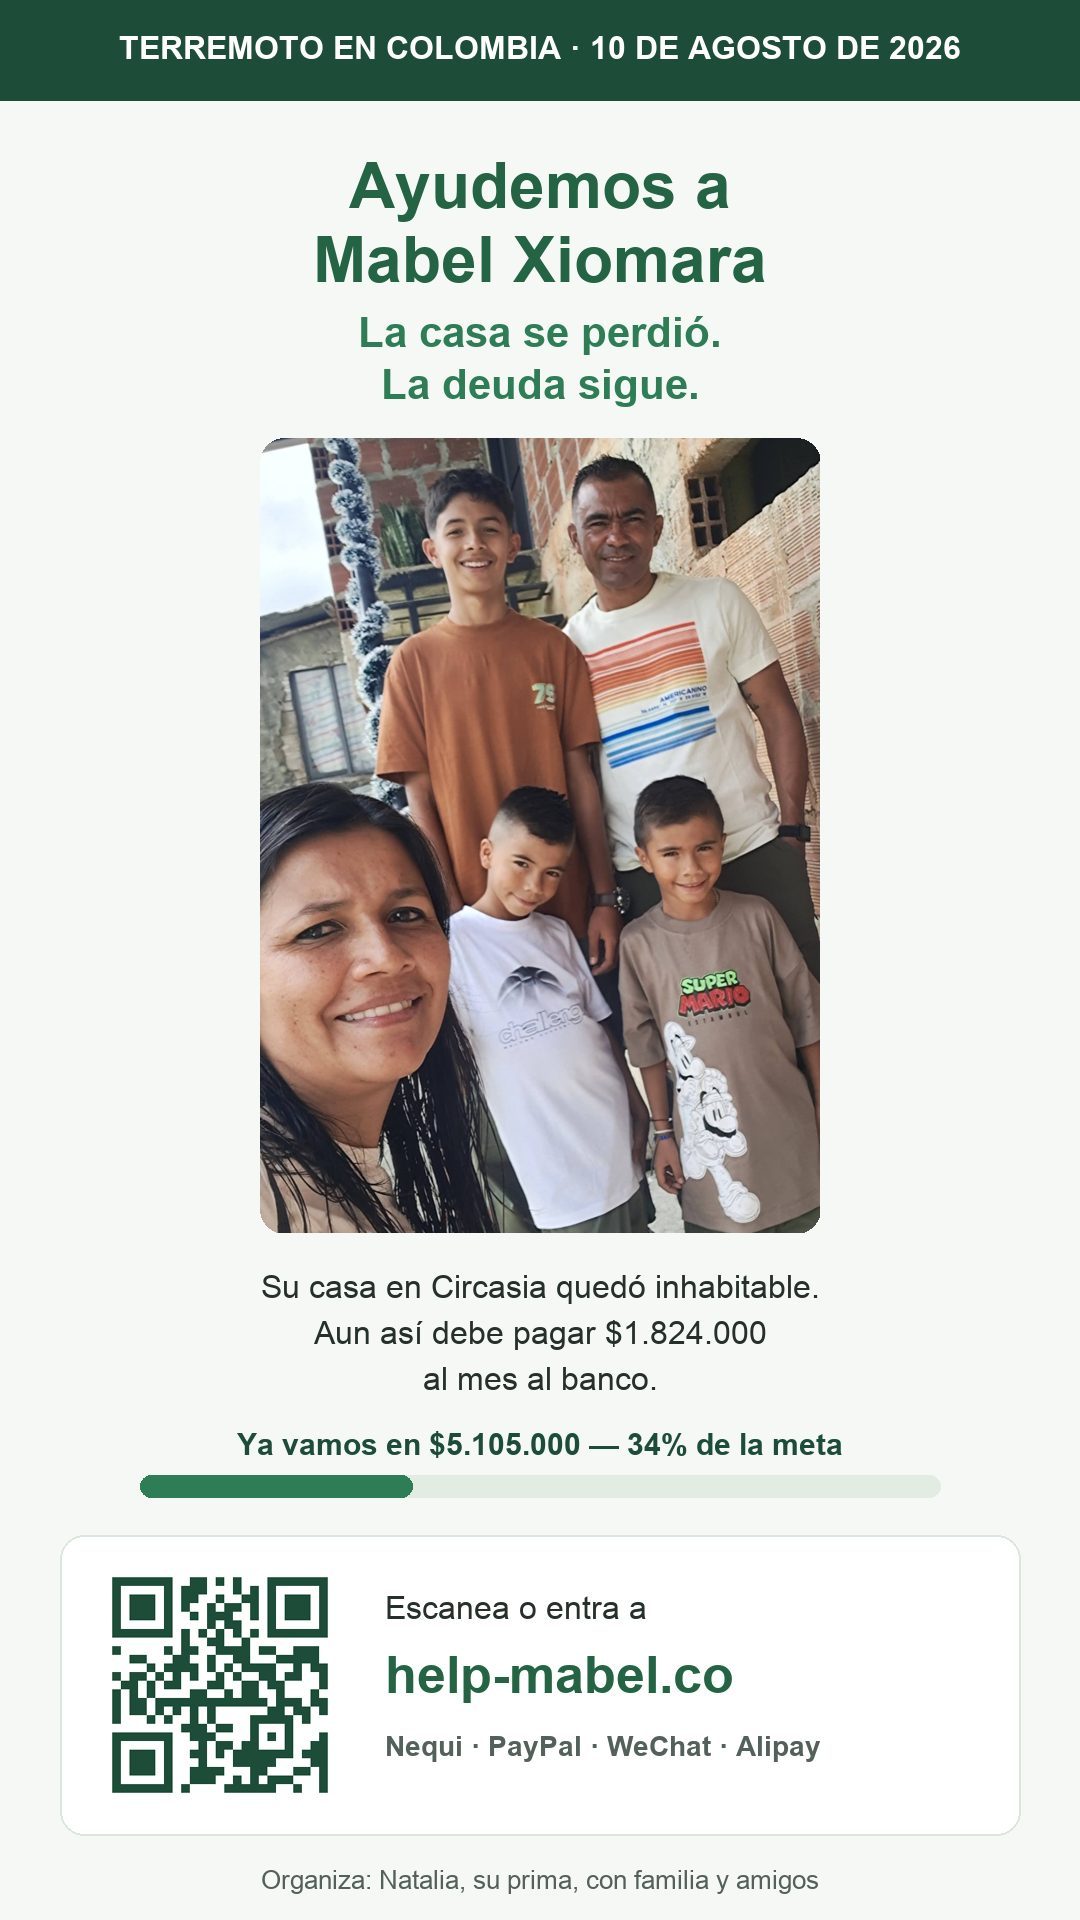
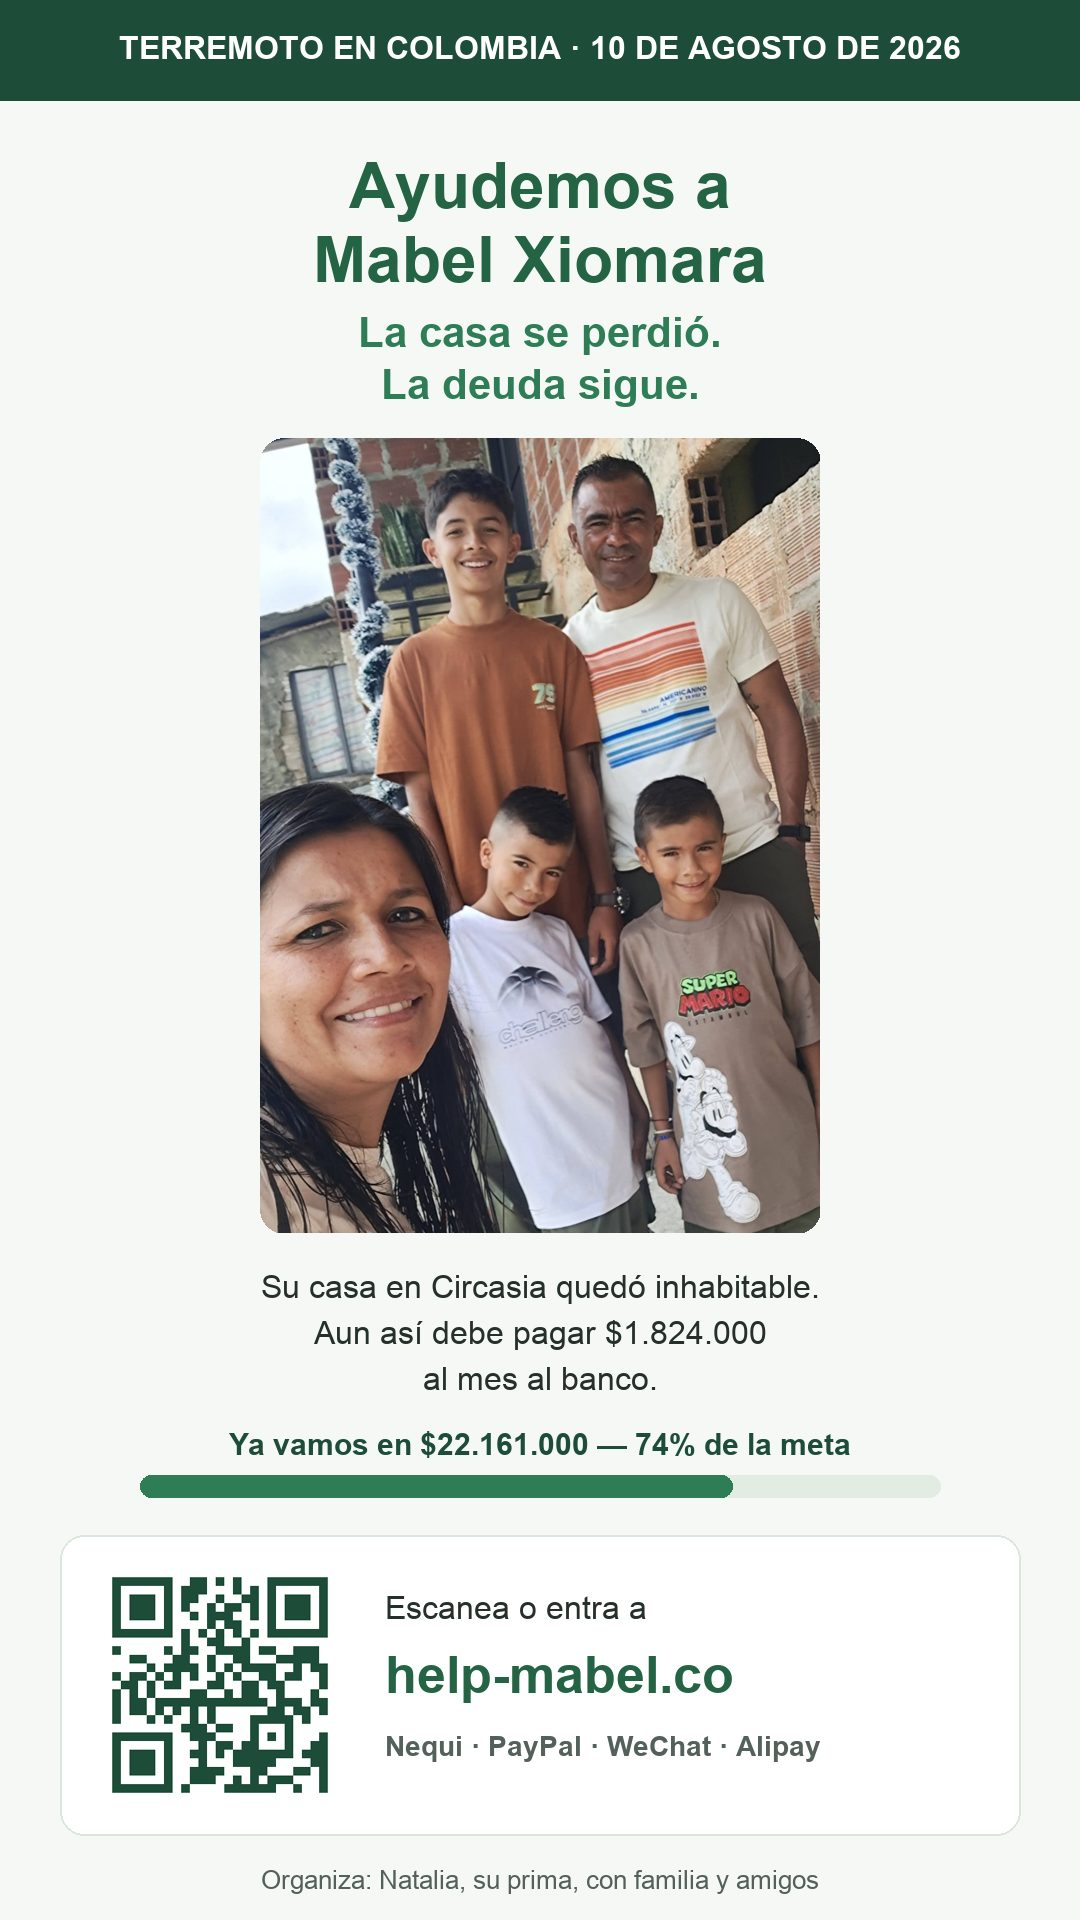
🎉 Primera meta superada: $22.161.000 (148%) — meta ampliada a $30M (74%)

Changed region(s): [[0.2139, 0.75, 0.7944, 0.7812]]

diff --git a/de/index.html b/de/index.html
@@ -38,7 +38,7 @@
   .lede strong{color:var(--ink)}
   .progress-card{background:var(--card);border:1px solid var(--line);border-radius:14px;padding:18px;margin:18px 0}
   .bar{background:#e2ece2;border-radius:99px;height:14px;overflow:hidden;margin:10px 0 6px}
-  .fill{background:linear-gradient(90deg,var(--green-deep),#3f9668);height:100%;width:71%;border-radius:99px}
+  .fill{background:linear-gradient(90deg,var(--green-deep),#3f9668);height:100%;width:74%;border-radius:99px}
   .raised{font-size:22px;font-weight:700;color:var(--green-deep)}
   .goal-note{font-size:14px;color:var(--ink-soft)}
   .btn{display:block;text-align:center;background:var(--green);color:#fff;text-decoration:none;
@@ -103,9 +103,9 @@
 </header>
 
 <div class="progress-card">
-  <div class="raised"><span id="raised-num">10.658.000 COP</span> gesammelt <span id="raised-pct" style="font-size:16px;color:var(--ink-soft);font-weight:600">· 71 % des ersten Ziels</span></div>
+  <div class="raised"><span id="raised-num">22.161.000 COP</span> gesammelt <span id="raised-pct" style="font-size:16px;color:var(--ink-soft);font-weight:600">· 74 % des neuen Ziels</span></div>
   <div class="bar"><div class="fill" id="bar-fill"></div></div>
-  <div class="goal-note"><strong>Erstes Ziel: <span id="first-goal">15.000.000 COP</span></strong> — rund 8 Monatsraten (≈ 4.100 €)</div>
+  <div class="goal-note"><strong>Neues Ziel: <span id="first-goal">30.000.000 COP</span></strong> — das erste Ziel (15 Mio.) wurde in nur 2 Tagen erreicht! 🎉 (≈ 8.300 €)</div>
   <div class="goal-note" id="due-line" style="margin-top:6px;color:var(--green-dark);font-weight:700">Die nächste Rate über 1.824.000 COP (≈ 500 €) ist am 15. August fällig.</div>
 </div>
 
@@ -235,6 +235,15 @@ weiterleitet und die Belege veröffentlicht. Jeder Beitrag zählt — gemeinsam 
 
 <h2>Neuigkeiten</h2>
 <div class="update">
+  <div class="date">14. August 2026 — 🎉 ERSTES ZIEL ÜBERTROFFEN!</div>
+  <p style="margin:6px 0 0">In nur zwei Tagen haben wir das erste Ziel von 15 Millionen COP erreicht —
+  und übertroffen: Wir stehen bei <strong>22.161.000 COP (≈ 6.100 €)</strong>, dank Spenden aus Kolumbien
+  (Nequi: 11,5 Mio.), Europa und Australien (PayPal: 2.416 € + Überweisungen: 250 €) und China (WeChat
+  und Alipay: ¥2.100). Deshalb erhöhen wir das Ziel: <strong>30 Millionen COP — mehr als ein Jahr an
+  Kreditraten</strong>. Von Herzen danke an alle, die in fünf Ländern gespendet und geteilt haben.
+  Weiter geht's! 💚</p>
+</div>
+<div class="update">
   <div class="date">13. August 2026 — 34 %!</div>
   <p style="margin:6px 0 0">Was für ein Start! Wir stehen bei <strong>5.105.000 COP (≈ 1.400 €)</strong>
   — 34 % des ersten Ziels: 1.342 € über PayPal (inklusive der ersten Beiträge aus der Familie) und
@@ -267,7 +276,7 @@ einen Chat oder deine Moments（朋友圈）ein und sende sie.</p>
 
 <div class="sticky"><a class="btn" href="#spenden">💚 Jetzt spenden</a></div>
 
-<script src="../data.js?v=6"></script>
+<script src="../data.js?v=7"></script>
 <script>
 (function(){
   var c = window.CAMPAIGN; if (!c) return;
@@ -275,7 +284,7 @@ einen Chat oder deine Moments（朋友圈）ein und sende sie.</p>
   var f = function(n){ return n.toLocaleString("de-DE") + " COP"; };
   var eur = (c.copPerEur > 0) ? Math.round(c.raised / c.copPerEur / 10) * 10 : 0;
   document.getElementById("raised-num").textContent = f(c.raised) + (eur > 0 ? " (≈ " + eur.toLocaleString("de-DE") + " €)" : "");
-  document.getElementById("raised-pct").textContent = "· " + pct.toLocaleString("de-DE") + " % des ersten Ziels";
+  document.getElementById("raised-pct").textContent = "· " + pct.toLocaleString("de-DE") + " % des neuen Ziels";
   document.getElementById("bar-fill").style.width = Math.min(pct, 100) + "%";
   document.getElementById("first-goal").textContent = f(c.firstGoal);
   if (c.nextPaymentDue) {

diff --git a/en/index.html b/en/index.html
@@ -38,7 +38,7 @@
   .lede strong{color:var(--ink)}
   .progress-card{background:var(--card);border:1px solid var(--line);border-radius:14px;padding:18px;margin:18px 0}
   .bar{background:#e2ece2;border-radius:99px;height:14px;overflow:hidden;margin:10px 0 6px}
-  .fill{background:linear-gradient(90deg,var(--green-deep),#3f9668);height:100%;width:71%;border-radius:99px}
+  .fill{background:linear-gradient(90deg,var(--green-deep),#3f9668);height:100%;width:74%;border-radius:99px}
   .raised{font-size:22px;font-weight:700;color:var(--green-deep)}
   .goal-note{font-size:14px;color:var(--ink-soft)}
   .btn{display:block;text-align:center;background:var(--green);color:#fff;text-decoration:none;
@@ -103,9 +103,9 @@
 </header>
 
 <div class="progress-card">
-  <div class="raised"><span id="raised-num">10,658,000 COP</span> raised <span id="raised-pct" style="font-size:16px;color:var(--ink-soft);font-weight:600">· 71% of the first goal</span></div>
+  <div class="raised"><span id="raised-num">22,161,000 COP</span> raised <span id="raised-pct" style="font-size:16px;color:var(--ink-soft);font-weight:600">· 74% of the new goal</span></div>
   <div class="bar"><div class="fill" id="bar-fill"></div></div>
-  <div class="goal-note"><strong>First goal: <span id="first-goal">15,000,000 COP</span></strong> — about 8 months of loan payments (≈ €4,100 / £3,500 / A$6,700)</div>
+  <div class="goal-note"><strong>New goal: <span id="first-goal">30,000,000 COP</span></strong> — the first goal ($15M) was reached in just 2 days! 🎉 (≈ €8,300 / £7,100 / A$13,400)</div>
   <div class="goal-note" id="due-line" style="margin-top:6px;color:var(--green-dark);font-weight:700">The next loan payment of 1,824,000 COP (≈ €500) is due 15 August.</div>
 </div>
 
@@ -232,6 +232,14 @@ Mabel Xiomara and posts the receipts. Every contribution counts — together we 
 
 <h2>Updates</h2>
 <div class="update">
+  <div class="date">August 14, 2026 — 🎉 FIRST GOAL SMASHED!</div>
+  <p style="margin:6px 0 0">In just two days we reached — and passed — the first goal of 15 million COP:
+  we're now at <strong>22,161,000 COP (≈ €6,100)</strong>, thanks to donations from Colombia (Nequi:
+  11.5M), Europe and Australia (PayPal: €2,416 + bank transfers: €250) and China (WeChat and Alipay:
+  ¥2,100). So we're raising the goal: <strong>30 million COP — more than a year of loan payments</strong>.
+  Heartfelt thanks to everyone who has donated and shared across five countries. Onward! 💚</p>
+</div>
+<div class="update">
   <div class="date">August 13, 2026 — 34%!</div>
   <p style="margin:6px 0 0">What a start! We're at <strong>5,105,000 COP (≈ €1,400)</strong> — 34% of
   the first goal: €1,342 via PayPal (including the family's initial contributions) and ¥500 via WeChat.
@@ -264,7 +272,7 @@ chat or your Moments（朋友圈）and send.</p>
 
 <div class="sticky"><a class="btn" href="#donate">💚 Donate now</a></div>
 
-<script src="../data.js?v=6"></script>
+<script src="../data.js?v=7"></script>
 <script>
 (function(){
   var c = window.CAMPAIGN; if (!c) return;
@@ -272,7 +280,7 @@ chat or your Moments（朋友圈）and send.</p>
   var f = function(n){ return n.toLocaleString("en-GB") + " COP"; };
   var eur = (c.copPerEur > 0) ? Math.round(c.raised / c.copPerEur / 10) * 10 : 0;
   document.getElementById("raised-num").textContent = f(c.raised) + (eur > 0 ? " (≈ €" + eur.toLocaleString("en-GB") + ")" : "");
-  document.getElementById("raised-pct").textContent = "· " + pct.toLocaleString("en-GB") + "% of the first goal";
+  document.getElementById("raised-pct").textContent = "· " + pct.toLocaleString("en-GB") + "% of the new goal";
   document.getElementById("bar-fill").style.width = Math.min(pct, 100) + "%";
   document.getElementById("first-goal").textContent = f(c.firstGoal);
   if (c.nextPaymentDue) {

diff --git a/index.html b/index.html
@@ -42,7 +42,7 @@
 
   .progress-card{background:var(--card);border:1px solid var(--line);border-radius:14px;padding:18px;margin:18px 0}
   .bar{background:#e2ece2;border-radius:99px;height:14px;overflow:hidden;margin:10px 0 6px}
-  .fill{background:linear-gradient(90deg,var(--green-deep),#3f9668);height:100%;width:71%;border-radius:99px}
+  .fill{background:linear-gradient(90deg,var(--green-deep),#3f9668);height:100%;width:74%;border-radius:99px}
   .raised{font-size:22px;font-weight:700;color:var(--green-deep)}
   .goal-note{font-size:14px;color:var(--ink-soft)}
 
@@ -118,9 +118,9 @@
 </header>
 
 <div class="progress-card">
-  <div class="raised"><span id="raised-num">$10.658.000</span> COP recaudados <span id="raised-pct" style="font-size:16px;color:var(--ink-soft);font-weight:600">· 71% de la primera meta</span></div>
+  <div class="raised"><span id="raised-num">$22.161.000</span> COP recaudados <span id="raised-pct" style="font-size:16px;color:var(--ink-soft);font-weight:600">· 74% de la nueva meta</span></div>
   <div class="bar"><div class="fill" id="bar-fill"></div></div>
-  <div class="goal-note"><strong>Primera meta: <span id="first-goal">$15.000.000</span></strong> — unos 8 meses de cuotas del crédito</div>
+  <div class="goal-note"><strong>Nueva meta: <span id="first-goal">$30.000.000</span></strong> — ¡la primera meta ($15M) se superó en solo 2 días! 🎉</div>
   <div class="goal-note" id="due-line" style="margin-top:6px;color:var(--green-dark);font-weight:700">La próxima cuota de $1.824.000 vence el 15 de agosto.</div>
 </div>
 
@@ -249,6 +249,14 @@ Cualquier aporte suma; entre todos marcamos la diferencia.</p>
 
 <h2>Actualizaciones</h2>
 <div class="update">
+  <div class="date">14 de agosto de 2026 — 🎉 ¡PRIMERA META SUPERADA!</div>
+  <p style="margin:6px 0 0">En solo dos días alcanzamos — y superamos — la primera meta de $15 millones:
+  ya vamos en <strong>$22.161.000</strong>, gracias a donaciones desde Colombia (Nequi: $11,5 millones),
+  Europa y Australia (PayPal: €2.416 + transferencias: €250) y China (WeChat y Alipay: ¥2.100). Por eso
+  ampliamos la meta: <strong>$30 millones — más de un año de cuotas del crédito</strong>. Gracias de
+  corazón a cada persona que ha donado y compartido en los cinco países. ¡Sigamos! 💚</p>
+</div>
+<div class="update">
   <div class="date">13 de agosto de 2026 — ¡34%!</div>
   <p style="margin:6px 0 0">¡Qué arranque! Ya vamos en <strong>$5.105.000</strong> — 34% de la primera
   meta: €1.342 por PayPal (incluye los aportes iniciales de familia y amigos) y ¥500 por WeChat.
@@ -281,14 +289,14 @@ un chat o en Momentos（朋友圈）y envíalo.</p>
 
 <div class="sticky"><a class="btn" href="#donar">💚 Donar ahora</a></div>
 
-<script src="data.js?v=6"></script>
+<script src="data.js?v=7"></script>
 <script>
 (function(){
   var c = window.CAMPAIGN; if (!c) return;
   var pct = Math.round(c.raised / c.firstGoal * 1000) / 10;
   var f = function(n){ return "$" + n.toLocaleString("es-CO"); };
   document.getElementById("raised-num").textContent = f(c.raised);
-  document.getElementById("raised-pct").textContent = "· " + pct.toLocaleString("es-CO") + "% de la primera meta";
+  document.getElementById("raised-pct").textContent = "· " + pct.toLocaleString("es-CO") + "% de la nueva meta";
   document.getElementById("bar-fill").style.width = Math.min(pct, 100) + "%";
   document.getElementById("first-goal").textContent = f(c.firstGoal);
   if (c.nextPaymentDue) {

diff --git a/wechat/index.html b/wechat/index.html
@@ -28,7 +28,7 @@
   .hero{width:100%;max-width:420px;margin:0 auto 14px}
   .progress-card{background:var(--card);border:1px solid var(--line);border-radius:14px;padding:14px;margin:14px 0}
   .bar{background:#e2ece2;border-radius:99px;height:12px;overflow:hidden;margin:8px 0 4px}
-  .fill{background:linear-gradient(90deg,var(--green-deep),#3f9668);height:100%;width:71%;border-radius:99px}
+  .fill{background:linear-gradient(90deg,var(--green-deep),#3f9668);height:100%;width:74%;border-radius:99px}
   .raised{font-size:18px;font-weight:700;color:var(--green-deep)}
   .goal-note{font-size:13px;color:var(--ink-soft)}
   .zh{background:var(--card);border-left:4px solid var(--green);border-radius:0 12px 12px 0;padding:12px 14px;margin:14px 0;font-size:16px}
@@ -55,9 +55,9 @@
   every month, with an outstanding balance of 89.4 million COP.</p>
 
   <div class="progress-card">
-    <div class="raised"><span id="raised-num">10,658,000 COP</span> raised</div>
+    <div class="raised"><span id="raised-num">22,161,000 COP</span> raised</div>
     <div class="bar"><div class="fill" id="bar-fill"></div></div>
-    <div class="goal-note">First goal: <span id="first-goal">15,000,000 COP</span> — about 8 months of loan payments</div>
+    <div class="goal-note">New goal: <span id="first-goal">30,000,000 COP</span> — first goal already smashed! 🎉</div>
   </div>
 
   <p>WeChat and Alipay donations are received by <strong>Natalia</strong>, Mabel Xiomara's cousin,
@@ -90,7 +90,7 @@
   <p class="note">Questions? Write to us: <a href="#" onclick="var m=['nataliavallejomoreno','gmail.com'].join('@');this.textContent=m;this.href='mailto:'+m;this.onclick=null;return false" style="color:var(--green-deep)">show contact email</a></p>
 </main>
 
-<script src="../data.js?v=6"></script>
+<script src="../data.js?v=7"></script>
 <script>
 (function(){
   var c = window.CAMPAIGN; if (!c) return;

diff --git a/data.js b/data.js
@@ -4,8 +4,8 @@
 // Browser Cache TTL de Cloudflare siga en 4h, es la única forma de que los
 // navegadores con caché vieja carguen el archivo nuevo. Versión actual: v=3.
 window.CAMPAIGN = {
-  raised: 10658000,             // COP recaudados (PayPal €2.416 + transf. €250 + WeChat ¥900 + Alipay ¥1.200; Nequi pendiente)
-  firstGoal: 15000000,          // primera meta COP
+  raised: 22161000,             // COP recaudados (Nequi $11,5M + PayPal €2.416 + transf. €250 + WeChat ¥900 + Alipay ¥1.200)
+  firstGoal: 30000000,          // meta actual COP (la 1.ª meta de 15M se superó el 14-ago)
   finalGoal: 89400000,          // deuda total exacta COP
   copPerEur: 3630,              // tasa COP por EUR (verificada 13 ago 2026; revisar mensualmente)
   nextPaymentDue: "2026-08-15"  // fecha de la próxima cuota (YYYY-MM-DD)
